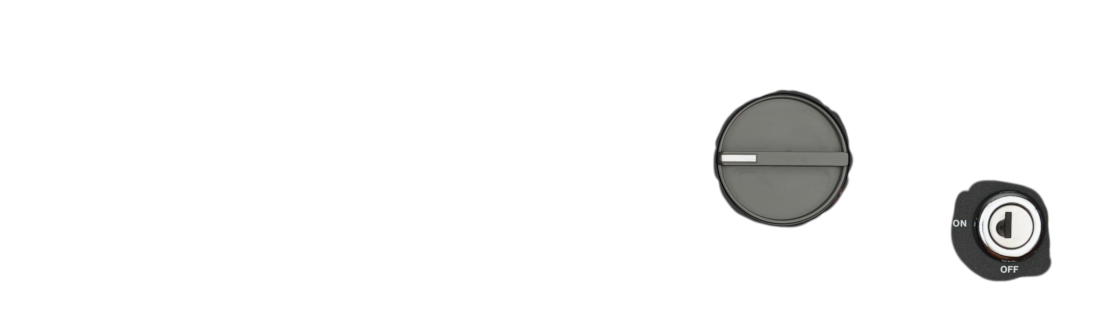
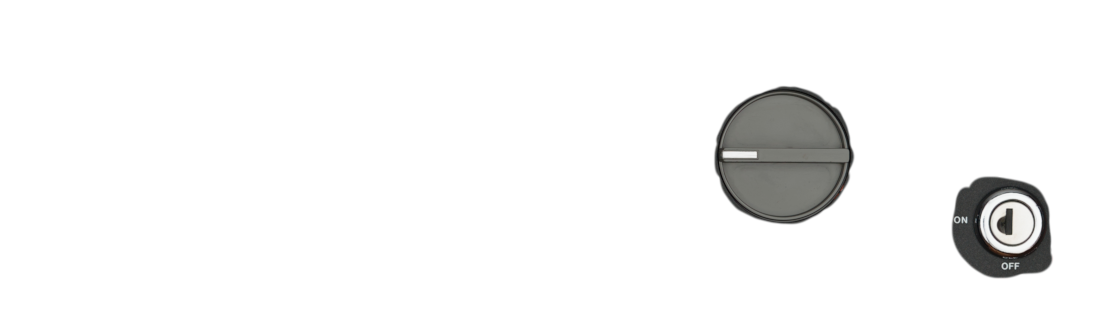
fix planes misalignment, articulate switches

diff --git a/src/ui/qt5/controlpanel.cpp b/src/ui/qt5/controlpanel.cpp
@@ -1,94 +1,107 @@
 #include <QDebug>
 #include <QPainter>
+#include <math.h>
 #include "controlpanel.h"
 #include "ectl.h"
 
-static const int led_h_top = 52;
-static const int led_l_top = 183;
+#define DEBUG_RECTS 1
+
+static const int led_u_top = 48;
+static const int led_l_top = 179;
 static const int led_width = 24;
 static const int led_height = 24;
 
 static const QRect led_w_rects[] = {
-    QRect( 54, led_h_top, led_width, led_height),
-    QRect( 90, led_h_top, led_width, led_height),
-    QRect(126, led_h_top, led_width, led_height),
-    QRect(162, led_h_top, led_width, led_height),
-    QRect(198, led_h_top, led_width, led_height),
-    QRect(233, led_h_top, led_width, led_height),
-    QRect(269, led_h_top, led_width, led_height),
-    QRect(305, led_h_top, led_width, led_height),
-    QRect(341, led_h_top, led_width, led_height),
-    QRect(377, led_h_top, led_width, led_height),
-    QRect(413, led_h_top, led_width, led_height),
-    QRect(449, led_h_top, led_width, led_height),
-    QRect(484, led_h_top, led_width, led_height),
-    QRect(520, led_h_top, led_width, led_height),
-    QRect(556, led_h_top, led_width, led_height),
-    QRect(592, led_h_top, led_width, led_height)
+    QRect( 53, led_u_top, led_width, led_height),
+    QRect( 89, led_u_top, led_width, led_height),
+    QRect(125, led_u_top, led_width, led_height),
+    QRect(161, led_u_top, led_width, led_height),
+    QRect(197, led_u_top, led_width, led_height),
+    QRect(233, led_u_top, led_width, led_height),
+    QRect(269, led_u_top, led_width, led_height),
+    QRect(305, led_u_top, led_width, led_height),
+    QRect(341, led_u_top, led_width, led_height),
+    QRect(377, led_u_top, led_width, led_height),
+    QRect(413, led_u_top, led_width, led_height),
+    QRect(449, led_u_top, led_width, led_height),
+    QRect(484, led_u_top, led_width, led_height),
+    QRect(520, led_u_top, led_width, led_height),
+    QRect(556, led_u_top, led_width, led_height),
+    QRect(592, led_u_top, led_width, led_height)
 };
 
-static const QRect led_mode_rect    = QRect( 88, led_l_top, led_width, led_height);
+static const QRect led_mode_rect    = QRect( 89, led_l_top, led_width, led_height);
 static const QRect led_stopn_rect   = QRect(125, led_l_top, led_width, led_height);
 static const QRect led_clock_rect   = QRect(412, led_l_top, led_width, led_height);
 static const QRect led_q_rect       = QRect(448, led_l_top, led_width, led_height);
 static const QRect led_p_rect       = QRect(483, led_l_top, led_width, led_height);
 static const QRect led_mc_rect      = QRect(519, led_l_top, led_width, led_height);
 static const QRect led_irq_rect     = QRect(555, led_l_top, led_width, led_height);
-static const QRect led_run_rect     = QRect(951, 54, led_width, led_height);
-static const QRect led_wait_rect    = QRect(987, 54, led_width, led_height);
-static const QRect led_alarm_rect   = QRect(1023, 54, led_width, led_height);
-static const QRect led_on_rect      = QRect(997, 125, led_width, led_height);
+static const QRect led_run_rect     = QRect(952, 49, led_width, led_height);
+static const QRect led_wait_rect    = QRect(988, 49, led_width, led_height);
+static const QRect led_alarm_rect   = QRect(1024, 49, led_width, led_height);
+static const QRect led_on_rect      = QRect(997, 121, led_width, led_height);
 
-static const int sw_h_top = 93;
-static const int sw_l_top = 224;
+static const int sw_u_top = 89;
+static const int sw_l_top = 220;
 static const int sw_width = 36;
 static const int sw_height = 48;
 
-static const QRect sw_kb_rects[] = {
-    QRect( 47, sw_h_top, sw_width, sw_height),
-    QRect( 83, sw_h_top, sw_width, sw_height),
-    QRect(118, sw_h_top, sw_width, sw_height),
-    QRect(154, sw_h_top, sw_width, sw_height),
-    QRect(190, sw_h_top, sw_width, sw_height),
-    QRect(226, sw_h_top, sw_width, sw_height),
-    QRect(262, sw_h_top, sw_width, sw_height),
-    QRect(298, sw_h_top, sw_width, sw_height),
-    QRect(334, sw_h_top, sw_width, sw_height),
-    QRect(369, sw_h_top, sw_width, sw_height),
-    QRect(405, sw_h_top, sw_width, sw_height),
-    QRect(441, sw_h_top, sw_width, sw_height),
-    QRect(477, sw_h_top, sw_width, sw_height),
-    QRect(513, sw_h_top, sw_width, sw_height),
-    QRect(549, sw_h_top, sw_width, sw_height),
-    QRect(585, sw_h_top, sw_width, sw_height)
+static const QRect sw_u_rects[16] = {
+    QRect( 47, sw_u_top, sw_width, sw_height),
+    QRect( 83, sw_u_top, sw_width, sw_height),
+    QRect(118, sw_u_top, sw_width, sw_height),
+    QRect(154, sw_u_top, sw_width, sw_height),
+    QRect(190, sw_u_top, sw_width, sw_height),
+    QRect(226, sw_u_top, sw_width, sw_height),
+    QRect(262, sw_u_top, sw_width, sw_height),
+    QRect(298, sw_u_top, sw_width, sw_height),
+    QRect(334, sw_u_top, sw_width, sw_height),
+    QRect(369, sw_u_top, sw_width, sw_height),
+    QRect(405, sw_u_top, sw_width, sw_height),
+    QRect(441, sw_u_top, sw_width, sw_height),
+    QRect(477, sw_u_top, sw_width, sw_height),
+    QRect(513, sw_u_top, sw_width, sw_height),
+    QRect(549, sw_u_top, sw_width, sw_height),
+    QRect(585, sw_u_top, sw_width, sw_height)
 };
 
-static const QRect sw_step_rect     = QRect( 46, sw_l_top, sw_width, sw_height);
-static const QRect sw_mode_rect     = QRect( 82, sw_l_top, sw_width, sw_height);
-static const QRect sw_stopn_rect    = QRect(118, sw_l_top, sw_width, sw_height);
-static const QRect sw_cycle_rect    = QRect(154, sw_l_top, sw_width, sw_height);
-static const QRect sw_load_rect     = QRect(190, sw_l_top, sw_width, sw_height);
-static const QRect sw_store_rect    = QRect(226, sw_l_top, sw_width, sw_height);
-static const QRect sw_fetch_rect    = QRect(262, sw_l_top, sw_width, sw_height);
-static const QRect sw_start_rect    = QRect(298, sw_l_top, sw_width, sw_height);
-static const QRect sw_bin_rect      = QRect(333, sw_l_top, sw_width, sw_height);
-static const QRect sw_clear_rect    = QRect(369, sw_l_top, sw_width, sw_height);
-static const QRect sw_clock_rect    = QRect(405, sw_l_top, sw_width, sw_height);
-static const QRect sw_oprq_rect     = QRect(585, sw_l_top, sw_width, sw_height);
+enum sw_lower_id {SW_STEP, SW_MODE, SW_STOPN, SW_CYCLE, SW_LOAD, SW_STORE, SW_FETCH, SW_START, SW_BIN, SW_CLEAR, SW_CLOCK, SW_OPRQ};
 
-static const QRect rotary_rect = QRect(708, 85, 150, 150);
-static const QRect ignition_rect = QRect(948, 165, 103, 116);
+static const struct sw_desc sw_l[12] = {
+    { QRect( 46, sw_l_top, sw_width, sw_height), true },
+    { QRect( 82, sw_l_top, sw_width, sw_height), false },
+    { QRect(118, sw_l_top, sw_width, sw_height), true },
+    { QRect(154, sw_l_top, sw_width, sw_height), true },
+    { QRect(190, sw_l_top, sw_width, sw_height), true },
+    { QRect(226, sw_l_top, sw_width, sw_height), true },
+    { QRect(262, sw_l_top, sw_width, sw_height), true },
+    { QRect(298, sw_l_top, sw_width, sw_height), false },
+    { QRect(333, sw_l_top, sw_width, sw_height), true },
+    { QRect(369, sw_l_top, sw_width, sw_height), true },
+    { QRect(405, sw_l_top, sw_width, sw_height), false },
+    { QRect(585, sw_l_top, sw_width, sw_height), true }
+};
 
+static const QRect rotary_rect = QRect(708, 81, 150, 150);
+static const QPoint rotary_center = QPoint(784, 159);
+static const int rotary_radius = 65;
+
+static const QRect ignition_rect = QRect(948, 161, 103, 116);
+static const QPoint ignition_center = QPoint(1010, 226);
+static const int ignition_radius = 36;
 
 // -----------------------------------------------------------------------
 ControlPanel::ControlPanel(QWidget *parent) :
     QWidget(parent)
 {
-    bg.load("://pulpit/00.png");
-    fg.load("://pulpit/01.png");
+    for (int p=0 ; p<16 ; p++) {
+        QString filename = QString("://pulpit/%1.png").arg(p, 2, 10, QLatin1Char('0'));
+        plane[p].load(filename);
+    }
 
-    width = bg.width();
-    height = bg.height();
+    width = plane[0].width();
+    height = plane[0].height();
 }
 
 // -----------------------------------------------------------------------
@@ -102,7 +115,7 @@ void ControlPanel::paint_bus_w(QPainter &painter)
 {
     for (int i=0 ; i<16 ; i++) {
         if (w & (1 << (15-i))) {
-            painter.drawPixmap(led_w_rects[i].x(), led_w_rects[i].y(), fg.copy(led_w_rects[i]));
+            painter.drawPixmap(led_w_rects[i].x(), led_w_rects[i].y(), plane[1].copy(led_w_rects[i]));
         }
     }
 }
@@ -112,10 +125,10 @@ void ControlPanel::paint_state(QPainter &painter)
 {
     switch (state) {
     case ECTL_STATE_RUN:
-        painter.drawPixmap(led_run_rect.x(), led_run_rect.y(), fg.copy(led_run_rect));
+        painter.drawPixmap(led_run_rect.x(), led_run_rect.y(), plane[1].copy(led_run_rect));
         break;
     case ECTL_STATE_WAIT:
-        painter.drawPixmap(led_wait_rect.x(), led_wait_rect.y(), fg.copy(led_wait_rect));
+        painter.drawPixmap(led_wait_rect.x(), led_wait_rect.y(), plane[1].copy(led_wait_rect));
         break;
     }
 }
@@ -124,21 +137,64 @@ void ControlPanel::paint_state(QPainter &painter)
 void ControlPanel::paint_q(QPainter &painter)
 {
     if (q) {
-        painter.drawPixmap(led_q_rect.x(), led_q_rect.y(), fg.copy(led_q_rect));
+        painter.drawPixmap(led_q_rect.x(), led_q_rect.y(), plane[1].copy(led_q_rect));
     }
 }
 
+// -----------------------------------------------------------------------
+void ControlPanel::paint_sw_u(QPainter &painter)
+{
+    for (int i=0 ; i<16 ; i++) {
+        if (sw_u_state[i]) {
+            painter.drawPixmap(sw_u_rects[i].x(), sw_u_rects[i].y(), plane[1].copy(sw_u_rects[i]));
+        }
+    }
+}
+
+// -----------------------------------------------------------------------
+void ControlPanel::paint_sw_l(QPainter &painter)
+{
+    for (int i=SW_STEP ; i<=SW_OPRQ ; i++) {
+        if (sw_l_state[i]) {
+            painter.drawPixmap(sw_l[i].r.x(), sw_l[i].r.y(), plane[1].copy(sw_l[i].r));
+        }
+    }
+}
 // -----------------------------------------------------------------------
 void ControlPanel::paintEvent(QPaintEvent *event)
 {
     QPainter painter;
     painter.begin(this);
 
-    painter.drawPixmap(0, 0, bg);
-    painter.drawPixmap(led_on_rect.x(), led_on_rect.y(), fg.copy(led_on_rect));
+    painter.drawPixmap(0, 0, plane[0]);
+    painter.drawPixmap(led_on_rect.x(), led_on_rect.y(), plane[1].copy(led_on_rect));
     paint_bus_w(painter);
     paint_state(painter);
     paint_q(painter);
+    paint_sw_u(painter);
+    paint_sw_l(painter);
+
+    if (DEBUG_RECTS) {
+        QPen pen = QPen(Qt::DotLine);
+        pen.setColor(QColor(0, 255, 0));
+        painter.setPen(pen);
+        for (int i=0; i<12 ; i++) painter.drawRect(sw_l[i].r);
+        for (int i=0; i<16 ; i++) painter.drawRect(sw_u_rects[i]);
+        for (int i=0; i<16 ; i++) painter.drawRect(led_w_rects[i]);
+        painter.drawRect(rotary_rect);
+        painter.drawRect(ignition_rect);
+        painter.drawRect(led_mode_rect);
+        painter.drawRect(led_stopn_rect);
+        painter.drawRect(led_clock_rect);
+        painter.drawRect(led_q_rect);
+        painter.drawRect(led_p_rect);
+        painter.drawRect(led_mc_rect);
+        painter.drawRect(led_irq_rect);
+        painter.drawRect(led_on_rect);
+        painter.drawRect(led_run_rect);
+        painter.drawRect(led_wait_rect);
+        painter.drawRect(led_alarm_rect);
+    }
 
     painter.end();
 }
@@ -158,12 +214,63 @@ QSizePolicy ControlPanel::sizePolicy()
 // --------------------------------------------------------------------------
 void ControlPanel::mousePressEvent(QMouseEvent *event)
 {
+    QPoint m = event->pos();
+    // ignition
+    if (m.x() > ignition_rect.x()) {
+        int distance = sqrt(pow(ignition_center.x() - m.x(), 2) + pow(ignition_center.y() - m.y(), 2));
+        if (distance <= ignition_radius) {
+            qDebug() << "in ignition";
+        }
+    // rotary switch
+    } else if (m.x() > rotary_rect.x()) {
+        int distance = sqrt(pow(rotary_center.x() - m.x(), 2) + pow(rotary_center.y() - m.y(), 2));
+        if (distance <= rotary_radius) {
+            qDebug() << "in rotary";
+        }
+    // switches - upper row
+    } else if ((m.y() > sw_u_top) && (m.y() < sw_u_top + sw_height)) {
+        qDebug() << "upper row";
+        for (int sw=0 ; sw<16 ; sw++) {
+            if (m.y() >= sw_u_rects[sw].y()
+                && m.y() <= sw_u_rects[sw].y() + sw_height
+                && m.x() >= sw_u_rects[sw].x()
+                && m.x() <= sw_u_rects[sw].x() + sw_width
+            ) {
+                qDebug() << "upper switch " << sw;
+                sw_u_state[sw] = !sw_u_state[sw];
+                break;
+            }
+        }
+    // switches - lower row
+    } else if ((m.y() > sw_l_top) && (m.y() < sw_l_top + sw_height)) {
+        qDebug() << "lower row";
+        for (int sw=SW_STEP ; sw<=SW_OPRQ ; sw++) {
+            if (m.y() >= sw_l[sw].r.y()
+                && m.y() <= sw_l[sw].r.y() + sw_height
+                && m.x() >= sw_l[sw].r.x()
+                && m.x() <= sw_l[sw].r.x() + sw_width
+                ) {
+                qDebug() << "lower switch " << sw;
+                if (sw_l[sw].momentary) {
+                    sw_l_state[sw] = true;
+                    curr_sw = sw_l_state + sw;
+                } else {
+                    sw_l_state[sw] = !sw_l_state[sw];
+                }
+                break;
+            }
+        }
+    }
     update();
 }
 
 // --------------------------------------------------------------------------
 void ControlPanel::mouseReleaseEvent(QMouseEvent *event)
 {
+    if (curr_sw) {
+        *curr_sw = false;
+        curr_sw = NULL;
+    }
     update();
 }
 

diff --git a/src/ui/qt5/controlpanel.h b/src/ui/qt5/controlpanel.h
@@ -4,22 +4,30 @@
 #include <QWidget>
 #include <QMouseEvent>
 
+struct sw_desc {
+    QRect r;
+    bool momentary;
+};
 
 class ControlPanel : public QWidget
 {
 	Q_OBJECT
 
 private:
-    QPixmap bg;
-    QPixmap fg;
+    QPixmap plane[16];
     int width, height;
     uint16_t w;
     int state;
     bool q, p, mc, irq;
+    bool sw_u_state[16] = {false};
+    bool sw_l_state[12] = {false};
+    bool *curr_sw = NULL;
 
     void paint_bus_w(QPainter &painter);
     void paint_state(QPainter &painter);
     void paint_q(QPainter &painter);
+    void paint_sw_u(QPainter &painter);
+    void paint_sw_l(QPainter &painter);
 
 protected:
 	void paintEvent(QPaintEvent *event);
